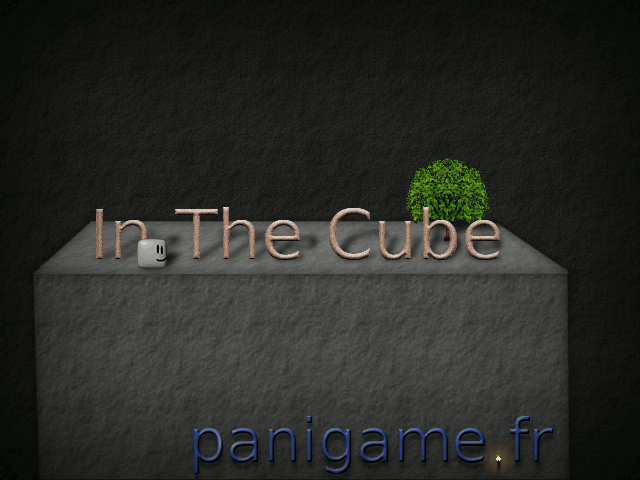
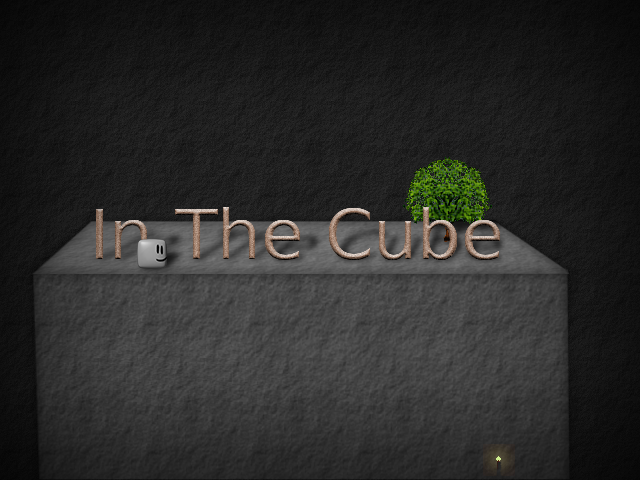
Various fixes.

Changed region(s): [[0.2812, 0.8438, 0.875, 1.0]]

diff --git a/src/style.css b/src/style.css
@@ -1,8 +1,9 @@
 html {
   background-color:black;
+  color:white;
 }
 
-html, body, #canvas {
+html, body {
   margin: 0px;
   border: 0;
   width: 100%;
@@ -20,25 +21,45 @@ html, body, #canvas {
   display: block;
 }
 
-#footer {
-  position:absolute;
-  bottom: 0px;
-  width:100%;
+#loading_page {
+  position:fixed;
+  top:0;
+  left:0;
+  width: 100%;
+  height: 100%;
+  z-index:1;
 }
 
-textarea {
-  box-shadow 10px 10px 10px black;
-  background-color:black;
-  color:white;
-  opacity:0.1;
-  transition:0.2s opacity ease-in-out;
-
-  display:block;
-  margin-left:auto;
-  margin-right:auto;
-  width:80%;
+.hbox {
+  display:flex;
+  flex-direction:row;
 }
 
-textarea:hover {
-  opacity:1.0;
+.vbox {
+  display:flex;
+  flex-direction:column;
 }
+
+.flex {
+  flex:1;
+}
+
+#loading {
+  display: inline-block;
+  width: 50px;
+  height: 50px;
+  border: 3px solid rgba(255,255,255,.3);
+  border-radius: 50%;
+  border-top-color: #fff;
+  animation: spin 1s ease-in-out infinite;
+  -webkit-animation: spin 1s ease-in-out infinite;
+}
+
+@keyframes spin {
+  to { -webkit-transform: rotate(360deg); }
+}
+@-webkit-keyframes spin {
+  to { -webkit-transform: rotate(360deg); }
+}
+
+Resources 1×0.5×0.25× Rerun

diff --git a/src/index.html b/src/index.html
@@ -1,6 +1,7 @@
 <!DOCTYPE html>
 <html>
   <head>
+    @google-analytics@
     <meta charset="utf-8">
     <title>In the cube</title>
     <link rel="stylesheet" type="text/css" href="style.css">
@@ -8,13 +9,21 @@
   </head>
   <body>
 
+    <div id="loading_page" class="vbox">
+      <div class="flex"></div>
+      <div class="hbox">
+        <div class="flex"></div>
+        <div id="loading"></div>
+        <div class="flex"></div>
+      </div>
+      <div class="flex"></div>
+    </div>
+
+
     <canvas id="canvas" oncontextmenu="event.preventDefault()">
         Chargement... 
     </canvas>
 
-    <div id="footer">
-      <textarea class="emscripten" id="output" rows=10> </textarea>
-    </div>
     <script>
       var canvas = document.getElementById('canvas');
 
@@ -27,8 +36,12 @@
       window.Module = {
         preRun: [],
         postRun: [],
-        canvas: canvas
+        canvas: canvas,
+        onRuntimeInitialized: function() {
+          document.querySelector("#loading_page").remove();
+        },
       };
+
     </script>
 
     <!--<script>-->

diff --git a/src/Level.cpp b/src/Level.cpp
@@ -505,6 +505,7 @@ void Level::Step(smk::Screen& screen) {
       hero.life--;
       hero.in_laser = false;
     }
+
     // an Hero is dead?
     if (hero.life <= 0) {
       // throw Particule (ghost))
@@ -1135,6 +1136,18 @@ void Level::Step(smk::Screen& screen) {
     it.Step();
   }
 
+  for (auto it = glassBlock_list.begin(); it != glassBlock_list.end(); ++it) {
+    auto& glass = *it;
+    if (!glass.in_laser)
+      continue;
+    glass.in_laser = false;
+    glass.height -= 0.2;
+    glass.y += 0.2;
+    glass.UpdateGeometry();
+    if (glass.height <= 3)
+      it = glassBlock_list.erase(it);
+  }
+
   /////////////////////////////////
   //        Teleporter           //
   /////////////////////////////////
@@ -1528,11 +1541,7 @@ void Level::EmitLaser(smk::Screen& screen,
       particule_list.push_front(particuleLaserOnGlass(xx, yy, x, y));
       particule_list.push_front(particuleLaserOnGlass(xx, yy, x, y));
 
-      glass.height -= 0.2;
-      glass.y += 0.2;
-      glass.UpdateGeometry();
-      if (glass.height <= 3)
-        it = glassBlock_list.erase(it);
+      glass.in_laser = true;
     }
   }
 

diff --git a/src/activity/MainScreen.cpp b/src/activity/MainScreen.cpp
@@ -123,7 +123,9 @@ void MainScreen::Draw() {
   int i = 0;
   for (auto& it : save_file_.saveList) {
     (void)it;
-    float decale = std::max(5.f, std::min(std::abs(mouse.y - (50 + i * 40)), 40.f));
+    float decale = std::abs(mouse.y - (50 + i * 40));
+    decale = std::max(decale, -30-370 + mouse.x);
+    decale = std::max(5.f, std::min(decale, 40.f));
 
     // rectangle
     smk::Shape rectangle = smk::Shape::Square();

diff --git a/src/Glass.hpp b/src/Glass.hpp
@@ -15,6 +15,8 @@ class Glass {
   float x, y, xspeed, yspeed;
   float height;
   float width;
+  bool in_laser = false;
+
   Glass(int x, int y);
   void UpdateGeometry();
   void Draw(smk::Screen& screen);
